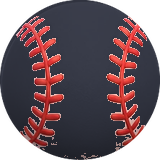
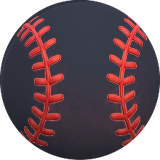
fix(hrb): v0.73 clean black baseball stitch edges and price at 720 coins

diff --git a/sw.js b/sw.js
@@ -1,4 +1,4 @@
-const CACHE='hrb-v72-20261125-discovery-art';
+const CACHE='hrb-v73-20261125-black-ball-seams';
 const ASSETS=['./','./index.html','./style.css','./manifest.webmanifest','./src/main.js','./src/pitcher.js','./src/engine.js','./src/world.js','./src/biomes.js','./src/game.js','./src/logic.js','./src/audio.js','./src/rewarded.js','./src/aiming.js','./src/sprites.js','./src/traffic.js','./src/discoveries.js','./src/cosmetic-render.js','./src/cosmetic-catalog.js','./src/cosmetic-art.js','./src/baked-assets.js','./assets/baked/manifest.json','./src/impact-fx.js','./src/ball-visuals.js','./src/ball-spin.js','./assets/materials-atlas-v2.png',
  './assets/strike.mp3','./assets/audio/bat-cgeffex.wav','./assets/baseball.webp',
  './assets/bat.webp','./assets/hit-spark.webp','./assets/swing-trail.webp',
@@ -6,15 +6,15 @@ const ASSETS=['./','./index.html','./style.css','./manifest.webmanifest','./src/
  
  './assets/batter/contact.webp','./assets/batter/follow.webp',
  './icons/icon-32.png','./icons/icon-180.png','./icons/icon-192.png','./icons/icon-512.png',
- './icons/icon-32.png?v=0.72.0','./icons/icon-180.png?v=0.72.0','./icons/icon-192.png?v=0.72.0','./icons/icon-512.png?v=0.72.0',
- './manifest.webmanifest?v=0.72.0','./style.css?v=0.72.0','./src/main.js?v=0.72.0','./src/game.js?v=0.72.0',
- './src/pitcher.js?v=0.72.0','./src/world.js?v=0.72.0','./src/biomes.js?v=0.72.0','./src/engine.js?v=0.72.0','./src/logic.js?v=0.72.0',
- './src/audio.js?v=0.72.0','./src/rewarded.js?v=0.72.0','./src/aiming.js?v=0.72.0',
- './src/sprites.js?v=0.72.0','./src/traffic.js?v=0.72.0','./src/discoveries.js?v=0.72.0','./src/cosmetic-render.js?v=0.72.0','./src/cosmetic-catalog.js?v=0.72.0','./src/cosmetic-art.js?v=0.72.0','./src/baked-assets.js?v=0.72.0','./src/impact-fx.js?v=0.72.0','./src/ball-visuals.js?v=0.72.0','./src/ball-spin.js?v=0.72.0','./assets/materials-atlas-v2.png?v=0.72.0','./assets/strike.mp3?v=0.72.0','./assets/audio/bat-cgeffex.wav?v=0.72.0'];
+ './icons/icon-32.png?v=0.73.0','./icons/icon-180.png?v=0.73.0','./icons/icon-192.png?v=0.73.0','./icons/icon-512.png?v=0.73.0',
+ './manifest.webmanifest?v=0.73.0','./style.css?v=0.73.0','./src/main.js?v=0.73.0','./src/game.js?v=0.73.0',
+ './src/pitcher.js?v=0.73.0','./src/world.js?v=0.73.0','./src/biomes.js?v=0.73.0','./src/engine.js?v=0.73.0','./src/logic.js?v=0.73.0',
+ './src/audio.js?v=0.73.0','./src/rewarded.js?v=0.73.0','./src/aiming.js?v=0.73.0',
+ './src/sprites.js?v=0.73.0','./src/traffic.js?v=0.73.0','./src/discoveries.js?v=0.73.0','./src/cosmetic-render.js?v=0.73.0','./src/cosmetic-catalog.js?v=0.73.0','./src/cosmetic-art.js?v=0.73.0','./src/baked-assets.js?v=0.73.0','./src/impact-fx.js?v=0.73.0','./src/ball-visuals.js?v=0.73.0','./src/ball-spin.js?v=0.73.0','./assets/materials-atlas-v2.png?v=0.73.0','./assets/strike.mp3?v=0.73.0','./assets/audio/bat-cgeffex.wav?v=0.73.0'];
 const OPTIONAL_AUDIO=[
- './assets/audio/bat-cgeffex.mp3?v=0.72.0',
- './assets/audio/asphalt-ball.mp3?v=0.72.0',
- './assets/audio/wall-ball.mp3?v=0.72.0'
+ './assets/audio/bat-cgeffex.mp3?v=0.73.0',
+ './assets/audio/asphalt-ball.mp3?v=0.73.0',
+ './assets/audio/wall-ball.mp3?v=0.73.0'
 ];
 // Las grabaciones CC0 no deben impedir la instalación si Freesound
 // falla durante la compilación; los originales de PCM sí son obligatorios.
@@ -31,7 +31,7 @@ self.addEventListener('install',e=>e.waitUntil(
    ...manifest.balls.map(id=>'./assets/baked/balls/'+id+'.webp')
   ];
   if(previews.length!==100)throw Error('Catálogo incompleto');
-  for(let i=0;i<previews.length;i+=12)await cache.addAll(previews.slice(i,i+12).map(p=>p+'?v=0.72.0'));
+  for(let i=0;i<previews.length;i+=12)await cache.addAll(previews.slice(i,i+12).map(p=>p+'?v=0.73.0'));
  }).then(()=>self.skipWaiting())
 ));
 self.addEventListener('activate',e=>e.waitUntil(caches.keys().then(keys=>Promise.all(keys.filter(k=>k!==CACHE).map(k=>caches.delete(k)))).then(()=>self.clients.claim())));

diff --git a/src/game.js b/src/game.js
@@ -1,17 +1,17 @@
-import {Renderer,CanvasRenderer,lerp} from './engine.js?v=0.72.0';
-import {drawWorld,groundAt,areaAt,traceBuildingCollision,traceStadiumContainerCollision,traceStadiumFenceCollision} from './world.js?v=0.72.0';
-import {traceSideBoundary,WORLD_CENTER_X,WORLD_HALF_WIDTH} from './biomes.js?v=0.72.0';
-import {SAVE_KEY,sanitizeSave,initialSave,formatInt,upgradeCost,upgrade,bonusCredits,bonusProgress,BONUS_EVERY,claimBonus,skillMaxLevel,calculateShot,pitchTimingDeltaMs,pitchTimingGuide,settleShot,forwardDistance,coinMultiplier,MILESTONES,COSMETICS,OUTFITS,BALL_STYLES,SHOP_SECTIONS,equipCosmetic,qualityNames,clamp} from './logic.js?v=0.72.0';
-import {recordDiscoveryShot,discoveredCount,nextDiscoveryHint,isDiscovered} from './discoveries.js?v=0.72.0';
-import {GameAudio} from './audio.js?v=0.72.0';
-import {hasRewardedAds,showRewardedAd} from './rewarded.js?v=0.72.0';
-import {aimSweep,aimBarPosition,aimSweetHalf,preciseAim,redirectShot,aimDegrees,SWEEP_MAX_RAD} from './aiming.js?v=0.72.0';
-import {BatterSprites} from './sprites.js?v=0.72.0';
-import {bakedAssetUrl} from './baked-assets.js?v=0.72.0';
-import {ImpactEffects,hitStopDuration} from './impact-fx.js?v=0.72.0';
-import {initBallSpin,onSpinImpact,integratePhysicalSpin,advanceVisualSpin,freezeBallSpin} from './ball-spin.js?v=0.72.0';
-import {traceTrafficCollision,trafficDeflection} from './traffic.js?v=0.72.0';
-import {pitcherReactionPlan} from './pitcher.js?v=0.72.0';
+import {Renderer,CanvasRenderer,lerp} from './engine.js?v=0.73.0';
+import {drawWorld,groundAt,areaAt,traceBuildingCollision,traceStadiumContainerCollision,traceStadiumFenceCollision} from './world.js?v=0.73.0';
+import {traceSideBoundary,WORLD_CENTER_X,WORLD_HALF_WIDTH} from './biomes.js?v=0.73.0';
+import {SAVE_KEY,sanitizeSave,initialSave,formatInt,upgradeCost,upgrade,bonusCredits,bonusProgress,BONUS_EVERY,claimBonus,skillMaxLevel,calculateShot,pitchTimingDeltaMs,pitchTimingGuide,settleShot,forwardDistance,coinMultiplier,MILESTONES,COSMETICS,OUTFITS,BALL_STYLES,SHOP_SECTIONS,equipCosmetic,qualityNames,clamp} from './logic.js?v=0.73.0';
+import {recordDiscoveryShot,discoveredCount,nextDiscoveryHint,isDiscovered} from './discoveries.js?v=0.73.0';
+import {GameAudio} from './audio.js?v=0.73.0';
+import {hasRewardedAds,showRewardedAd} from './rewarded.js?v=0.73.0';
+import {aimSweep,aimBarPosition,aimSweetHalf,preciseAim,redirectShot,aimDegrees,SWEEP_MAX_RAD} from './aiming.js?v=0.73.0';
+import {BatterSprites} from './sprites.js?v=0.73.0';
+import {bakedAssetUrl} from './baked-assets.js?v=0.73.0';
+import {ImpactEffects,hitStopDuration} from './impact-fx.js?v=0.73.0';
+import {initBallSpin,onSpinImpact,integratePhysicalSpin,advanceVisualSpin,freezeBallSpin} from './ball-spin.js?v=0.73.0';
+import {traceTrafficCollision,trafficDeflection} from './traffic.js?v=0.73.0';
+import {pitcherReactionPlan} from './pitcher.js?v=0.73.0';
 const el=id=>document.getElementById(id);
 // Rozamiento continuo por segundo: una cola de rodadura algo más larga,
 // independiente de los FPS, sin alterar el vuelo ni la pérdida al rebotar.

diff --git a/tests/pwa-refresh.test.js b/tests/pwa-refresh.test.js
@@ -7,34 +7,34 @@ test('v0.50 evita mezclar versiones de CSS, JS, WebAudio y PWA en caché',()=>{
  const html=readFileSync(new URL('../index.html',import.meta.url),'utf8');
  const sw=readFileSync(new URL('../sw.js',import.meta.url),'utf8');
  const main=readFileSync(new URL('../src/main.js',import.meta.url),'utf8');
- assert.match(html,/style\.css\?v=0\.72\.0/);
- assert.match(html,/src\/main\.js\?v=0\.72\.0/);
- assert.match(main,/game\.js\?v=0\.72\.0/);
+ assert.match(html,/style\.css\?v=0\.73\.0/);
+ assert.match(html,/src\/main\.js\?v=0\.73\.0/);
+ assert.match(main,/game\.js\?v=0\.73\.0/);
  for(const src of ['game.js','world.js','sprites.js','traffic.js','discoveries.js','cosmetic-render.js','cosmetic-catalog.js','cosmetic-art.js','baked-assets.js','impact-fx.js']){
   const code=readFileSync(new URL('../src/'+src,import.meta.url),'utf8');
   for(const [,path] of code.matchAll(/from '(\.\/[^']+\.js(?:\?[^']+)?)'/g)){
-   assert.ok(path.endsWith('?v=0.72.0'),src+' importa módulo sin versión: '+path);
+   assert.ok(path.endsWith('?v=0.73.0'),src+' importa módulo sin versión: '+path);
   }
  }
- assert.match(sw,/hrb-v72-20261125-discovery-art/);
+ assert.match(sw,/hrb-v73-20261125-black-ball-seams/);
  assert.match(sw,/fetch\(request,\{cache:'no-store'\}\)/);
  assert.match(sw,/caches\.match\(request\)/);
  assert.match(sw,/clients\.claim/);
  assert.match(sw,/\.\/assets\/strike\.mp3/);
- assert.match(sw,/\.\/src\/biomes\.js\?v=0\.72\.0/);
- assert.match(sw,/\.\/src\/cosmetic-render\.js\?v=0\.72\.0/);
- assert.match(sw,/\.\/src\/cosmetic-catalog\.js\?v=0\.72\.0/);
- assert.match(sw,/\.\/src\/cosmetic-art\.js\?v=0\.72\.0/);
- assert.match(sw,/\.\/src\/baked-assets\.js\?v=0\.72\.0/);
+ assert.match(sw,/\.\/src\/biomes\.js\?v=0\.73\.0/);
+ assert.match(sw,/\.\/src\/cosmetic-render\.js\?v=0\.73\.0/);
+ assert.match(sw,/\.\/src\/cosmetic-catalog\.js\?v=0\.73\.0/);
+ assert.match(sw,/\.\/src\/cosmetic-art\.js\?v=0\.73\.0/);
+ assert.match(sw,/\.\/src\/baked-assets\.js\?v=0\.73\.0/);
  assert.match(sw,/\.\/assets\/baked\/manifest\.json/);
- assert.match(sw,/\.\/src\/traffic\.js\?v=0\.72\.0/);
- assert.match(sw,/\.\/src\/discoveries\.js\?v=0\.72\.0/);
+ assert.match(sw,/\.\/src\/traffic\.js\?v=0\.73\.0/);
+ assert.match(sw,/\.\/src\/discoveries\.js\?v=0\.73\.0/);
  assert.doesNotMatch(sw,/assets\/traffic\//);
 });
 
 test('la interfaz muestra nuevo multiplicador, barra de dirección y desglose de premios',()=>{
  const html=readFileSync(new URL('../index.html',import.meta.url),'utf8');
- assert.match(html,/Versión 0\.72/);
+ assert.match(html,/Versión 0\.73/);
  assert.match(html,/id="aim-ball"/);
  assert.match(html,/id="aim-sweet-zone"/);
  assert.match(html,/id="up-multiplier"/);

diff --git a/index.html b/index.html
@@ -8,11 +8,11 @@
 <meta name="apple-mobile-web-app-status-bar-style" content="black-translucent"/>
 <meta name="apple-mobile-web-app-title" content="Home Run"/>
 <meta name="description" content="Home Run Beyond: un golpe, un récord, un mundo sin límites."/>
-<link rel="manifest" href="./manifest.webmanifest?v=0.72.0"/>
-<link rel="apple-touch-icon" sizes="180x180" href="./icons/icon-180.png?v=0.72.0"/>
-<link rel="icon" type="image/png" sizes="32x32" href="./icons/icon-32.png?v=0.72.0"/>
-<link rel="icon" type="image/png" sizes="192x192" href="./icons/icon-192.png?v=0.72.0"/>
-<link rel="stylesheet" href="./style.css?v=0.72.0"/>
+<link rel="manifest" href="./manifest.webmanifest?v=0.73.0"/>
+<link rel="apple-touch-icon" sizes="180x180" href="./icons/icon-180.png?v=0.73.0"/>
+<link rel="icon" type="image/png" sizes="32x32" href="./icons/icon-32.png?v=0.73.0"/>
+<link rel="icon" type="image/png" sizes="192x192" href="./icons/icon-192.png?v=0.73.0"/>
+<link rel="stylesheet" href="./style.css?v=0.73.0"/>
 <title>Home Run Beyond ⚾</title>
 </head>
 <body>
@@ -42,7 +42,7 @@
         <div class="menu-stats"><span>RÉCORD <strong id="menu-best">0 m</strong></span><span>GOLPES <strong id="menu-shots">0</strong></span><span>REGIÓN <strong id="menu-region">ESTADIO</strong></span></div>
         <div class="menu-equipment" id="menu-equipment">🏏 Clásico · 👕 Rojo · ⚾ Blanca</div>
         <small>Sin registro · Partidas rápidas · Guardado local</small>
-        <small class="menu-version">VERSIÓN 0.72</small>
+        <small class="menu-version">VERSIÓN 0.73</small>
       </div>
     </div>
   </section>
@@ -185,7 +185,7 @@
         <button id="settings-reset" class="setting-action setting-danger">Restablecer todos los datos de este dispositivo</button>
         <p class="settings-explain">Sin registro. Monedas, mejoras y cosméticos solo en este dispositivo. Borrar datos es irreversible.</p>
       </div>
-      <div class="foot-note">Home Run Beyond · CraftRace Studio · Versión 0.72</div>
+      <div class="foot-note">Home Run Beyond · CraftRace Studio · Versión 0.73</div>
     </div>
   </section>
   <section class="layer modal-shell" id="welcome" hidden>
@@ -201,6 +201,6 @@
   </section>
   <div id="quality" class="quality low"><span>CALIDAD</span> <strong id="fps">— FPS</strong></div>
 </div>
-<script type="module" src="./src/main.js?v=0.72.0"></script>
+<script type="module" src="./src/main.js?v=0.73.0"></script>
 </body>
 </html>

diff --git a/tests/app-icon-and-cta.test.js b/tests/app-icon-and-cta.test.js
@@ -23,18 +23,18 @@ test('PWA, Safari e iPhone usan los iconos nuevos con caché renovada',()=>{
  const html=readFileSync(new URL('../index.html',import.meta.url),'utf8');
  const sw=readFileSync(new URL('../sw.js',import.meta.url),'utf8');
  const manifest=JSON.parse(readFileSync(new URL('../manifest.webmanifest',import.meta.url),'utf8'));
- assert.match(html,/rel="apple-touch-icon" sizes="180x180" href="\.\/icons\/icon-180\.png\?v=0\.72\.0"/);
- assert.match(html,/rel="icon" type="image\/png" sizes="32x32" href="\.\/icons\/icon-32\.png\?v=0\.72\.0"/);
- assert.match(html,/rel="manifest" href="\.\/manifest\.webmanifest\?v=0\.72\.0"/);
+ assert.match(html,/rel="apple-touch-icon" sizes="180x180" href="\.\/icons\/icon-180\.png\?v=0\.73\.0"/);
+ assert.match(html,/rel="icon" type="image\/png" sizes="32x32" href="\.\/icons\/icon-32\.png\?v=0\.73\.0"/);
+ assert.match(html,/rel="manifest" href="\.\/manifest\.webmanifest\?v=0\.73\.0"/);
  assert.deepEqual(manifest.icons.map(icon=>icon.src),[
-  './icons/icon-192.png?v=0.72.0','./icons/icon-512.png?v=0.72.0'
+  './icons/icon-192.png?v=0.73.0','./icons/icon-512.png?v=0.73.0'
  ]);
- assert.match(sw,/hrb-v72-20261125-discovery-art/);
+ assert.match(sw,/hrb-v73-20261125-black-ball-seams/);
  for(const size of [32,180,192,512]){
-  assert.ok(sw.includes(`./icons/icon-${size}.png?v=0.72.0`),
+  assert.ok(sw.includes(`./icons/icon-${size}.png?v=0.73.0`),
    'pre-caché del icono '+size);
  }
- assert.match(sw,/\.\/manifest\.webmanifest\?v=0\.72\.0/);
+ assert.match(sw,/\.\/manifest\.webmanifest\?v=0\.73\.0/);
 });
 test('botón VOLVER A BATEAR es CTA principal, no un botón secundario gris',()=>{
  const html=readFileSync(new URL('../index.html',import.meta.url),'utf8');

diff --git a/tests/ball-render-modes.test.js b/tests/ball-render-modes.test.js
@@ -28,7 +28,7 @@ test('tenis es feltro con dos surcos claros dibujados en la mitad frontal de la 
  assert.match(pattern,/251,252,235,255/,'el canal claro debe contrastar con el fieltro');
  assert.match(ballCode,/tennis felt grooves missing or too faint/,'el arte horneado se comprueba píxel a píxel en CI');
  const path=bakedAssetUrl('ball','tenis');
- assert.ok(path.includes('tenis.webp?v=0.72.0'),'la versión debe invalidar el asset antiguo del iPhone');
+ assert.ok(path.includes('tenis.webp?v=0.73.0'),'la versión debe invalidar el asset antiguo del iPhone');
 });
 test('pelota amarilla no es Mini Sol y ambos artículos permanecen disponibles',()=>{
  const yellow=BALL_CATALOG.find(i=>i.id==='sun');
@@ -79,4 +79,10 @@ test('dorada es oro pulido con costuras metálicas, no otra pelota amarilla',()=
  const py=readFileSync(new URL('../tools/ball_art.py',import.meta.url),'utf8');
  assert.match(py,/return polished_gold_baseball\(original\)/);
  assert.match(py,/gold ball must contain bright reflections and dark metallic contrast/);
+});
+
+test('pelota negra sin halo blanco: precio 720 y validación de silueta y costuras',()=>{
+ assert.equal(BALL_CATALOG.find(x=>x.id==='negra').price,720);
+ const py=readFileSync(new URL('../tools/ball_art.py',import.meta.url),'utf8');
+ assert.match(py,/return black_baseball\(original, color\)/);assert.match(py,/white fringe on black baseball/);
 });

diff --git a/src/audio.js b/src/audio.js
@@ -212,7 +212,7 @@ export class GameAudio{
   const job=(async()=>{
    for(const file of files){
     try{
-     const response=await fetch('./assets/audio/'+file+'?v=0.72.0');
+     const response=await fetch('./assets/audio/'+file+'?v=0.73.0');
      if(!response.ok)continue;
      const decoded=await this.ctx.decodeAudioData(await response.arrayBuffer());
      if(kind==='bat'&&file.endsWith('.mp3')&&decoded.duration<5.22)continue;
@@ -262,7 +262,7 @@ export class GameAudio{
   if(this.playRecorded('bat',gain))return;
   // Solo el WAV real si WebAudio no está listo. Nunca la síntesis del bate.
   if(typeof Audio!=='undefined'){
-   try{const clip=new Audio('./assets/audio/bat-cgeffex.wav?v=0.72.0');clip.volume=Math.min(1,gain);clip.play()?.catch?.(()=>{});}catch{}
+   try{const clip=new Audio('./assets/audio/bat-cgeffex.wav?v=0.73.0');clip.volume=Math.min(1,gain);clip.play()?.catch?.(()=>{});}catch{}
   }
   void this.prepareRecorded('bat');
  }
@@ -284,7 +284,7 @@ export class GameAudio{
   const ctx=this.ctx;
   if(!ctx||typeof fetch!=='function'||typeof ctx.decodeAudioData!=='function')
    return Promise.resolve(false);
-  this.strikeLoad=fetch('./assets/strike.mp3?v=0.72.0')
+  this.strikeLoad=fetch('./assets/strike.mp3?v=0.73.0')
    .then(response=>{
     if(!response.ok)throw Error('Audio de strike: HTTP '+response.status);
     return response.arrayBuffer();

diff --git a/src/engine.js b/src/engine.js
@@ -1,4 +1,4 @@
-import {pitcherPose} from './pitcher.js?v=0.72.0';
+import {pitcherPose} from './pitcher.js?v=0.73.0';
 // Motor 3D propio WebGL2: sin modelos, texturas, fuentes externas ni dependencias.
 const VERT=`#version 300 es
 precision highp float;
@@ -239,7 +239,7 @@ export class Renderer{
    }
   };
   atlas.onerror=()=>{this.textureReady=false;console.warn('Atlas de materiales no disponible; se conservan los colores base')};
-  atlas.src='./assets/materials-atlas-v2.png?v=0.72.0';
+  atlas.src='./assets/materials-atlas-v2.png?v=0.73.0';
  }
  gl.enable(gl.DEPTH_TEST);gl.depthFunc(gl.LEQUAL);gl.disable(gl.CULL_FACE);this.dpr=1.4;this.fogDistance=600;this.totalInstances=0;this.resize();}
  resize(){const dpr=Math.min(window.devicePixelRatio||1,this.dpr);const w=Math.max(1,Math.floor(this.canvas.clientWidth*dpr)),h=Math.max(1,Math.floor(this.canvas.clientHeight*dpr));if(this.canvas.width!==w||this.canvas.height!==h){this.canvas.width=w;this.canvas.height=h;this.gl.viewport(0,0,w,h)}this.aspect=w/h}

diff --git a/tests/recorded-audio.test.js b/tests/recorded-audio.test.js
@@ -26,7 +26,7 @@ test('CGEffex: el juego distribuye una grabación real, atribuida y reproducible
  assert.match(html,/BranRainey/);
  assert.match(sw,/OPTIONAL_AUDIO/);
  assert.match(sw,/Promise\.allSettled\(OPTIONAL_AUDIO/);
- assert.match(sw,/assets\/audio\/bat-cgeffex\.wav\?v=0\.72\.0/);
+ assert.match(sw,/assets\/audio\/bat-cgeffex\.wav\?v=0\.73\.0/);
  assert.equal((workflow.match(/run: python tools\/build_impact_audio\.py/g)||[]).length,2);
 });
 
@@ -88,7 +88,7 @@ test('precarga sin bloquear el bateo y cae al sonido local si falla Freesound',a
   a.prepareGameEffects();
   await Promise.all([...a.recordedLoads.values()]);
   assert.deepEqual([...a.recordedBuffers.keys()].sort(),['asphalt','bat','facade']);
-  assert.ok(visited.some(x=>x.includes('bat-cgeffex.mp3?v=0.72.0')));
+  assert.ok(visited.some(x=>x.includes('bat-cgeffex.mp3?v=0.73.0')));
   assert.ok(visited.some(x=>x.includes('asphalt-ball.mp3')));
   assert.ok(visited.some(x=>x.includes('wall-ball.mp3')));
  }finally{

diff --git a/src/world.js b/src/world.js
@@ -1,7 +1,7 @@
-import {lerp} from './engine.js?v=0.72.0';
-import {pitcherPose,PITCHER_Z} from './pitcher.js?v=0.72.0';
-import {visibleRoadTraffic,drawProceduralTraffic} from './traffic.js?v=0.72.0';
-import {WORLD_CENTER_X,WORLD_HALF_WIDTH,WORLD_WIDTH,biomeAt,biomeTransitionAt,biomeColorAt,mixColors,boundaryProfileAt} from './biomes.js?v=0.72.0';
+import {lerp} from './engine.js?v=0.73.0';
+import {pitcherPose,PITCHER_Z} from './pitcher.js?v=0.73.0';
+import {visibleRoadTraffic,drawProceduralTraffic} from './traffic.js?v=0.73.0';
+import {WORLD_CENTER_X,WORLD_HALF_WIDTH,WORLD_WIDTH,biomeAt,biomeTransitionAt,biomeColorAt,mixColors,boundaryProfileAt} from './biomes.js?v=0.73.0';
 // Mundo entero dibujado con primitivas low-poly, sin ningún asset externo.
 const PI=Math.PI;
 export const rand=(a,b=0)=>{let n=Math.sin(a*127.1+b*311.7+26.63)*43758.5453;return n-Math.floor(n)};

diff --git a/src/sprites.js b/src/sprites.js
@@ -1,8 +1,8 @@
-import {lookAt,perspective,mul4} from './engine.js?v=0.72.0';
-import {surfaceBelowBall,pitcherBallPosition} from './world.js?v=0.72.0';
-import {ballSpriteDiameter,ballShadowOpacity} from './ball-visuals.js?v=0.72.0';
-import {COSMETICS,OUTFITS,BALL_STYLES} from './logic.js?v=0.72.0';
-import {bakedAssetUrl,equippedAssetPaths,WEAPON_POSES} from './baked-assets.js?v=0.72.0';
+import {lookAt,perspective,mul4} from './engine.js?v=0.73.0';
+import {surfaceBelowBall,pitcherBallPosition} from './world.js?v=0.73.0';
+import {ballSpriteDiameter,ballShadowOpacity} from './ball-visuals.js?v=0.73.0';
+import {COSMETICS,OUTFITS,BALL_STYLES} from './logic.js?v=0.73.0';
+import {bakedAssetUrl,equippedAssetPaths,WEAPON_POSES} from './baked-assets.js?v=0.73.0';
 
 
 // Recortes 2.5D tomados de las tres láminas aprobadas. No hay re-render ni

diff --git a/src/discoveries.js b/src/discoveries.js
@@ -2,7 +2,7 @@
 // Comprar/equipar es otra acción: el precio orienta cuándo revelar cada objeto,
 // pero gastar en habilidades nunca hace retroceder los descubrimientos.
 // Regla estable por ID para no reordenar lo descubierto al crecer el catálogo.
-import {BAT_CATALOG,OUTFIT_CATALOG,BALL_CATALOG} from './cosmetic-catalog.js?v=0.72.0';
+import {BAT_CATALOG,OUTFIT_CATALOG,BALL_CATALOG} from './cosmetic-catalog.js?v=0.73.0';
 
 export const COLLECTIONS=Object.freeze({bat:BAT_CATALOG,outfit:OUTFIT_CATALOG,ball:BALL_CATALOG});
 export const STARTER_DISCOVERIES=Object.freeze(['bat:classic','outfit:red','ball:classic']);
